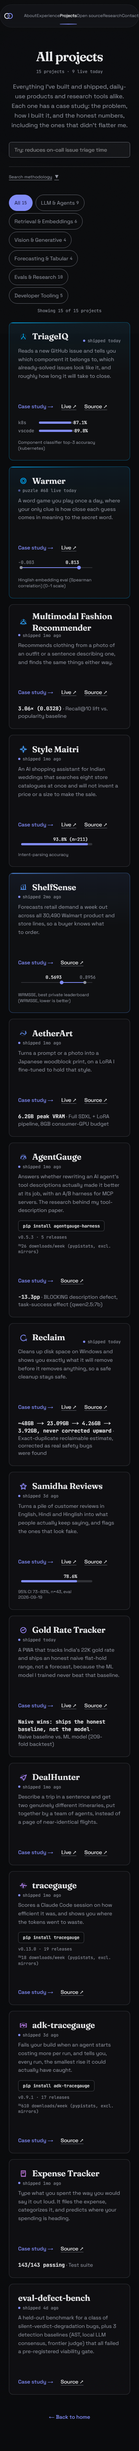
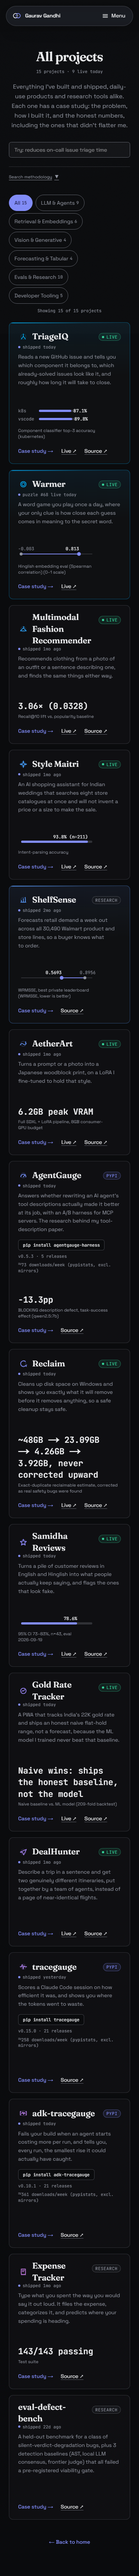
docs(refresh): recapture after/ screenshots with the distinct light theme
The 2026-09-25 after/ set predates the light theme (light == dark). Recaptured from
production ea10774 at 375/768/1440 x light/dark plus profile README light/dark. before/ untouched.

Changed region(s): [[0.0587, 0.0, 0.9093, 0.9971]]

diff --git a/docs/refresh-2026-09/after/README.md b/docs/refresh-2026-09/after/README.md
@@ -1,38 +1,32 @@
 # refresh-2026-09 — after-screenshots index
 
-Captured: 2026-09-25, 08:14:49–08:16:14 UTC.
-Production SHA: `de8ddaac98ec2d8d9683057631721917cdf28253` (== `origin/main` HEAD;
-confirmed via `gh api repos/.../deployments?environment=Production`).
+Captured: 2026-10-13 (recapture; supersedes the 2026-09-25 set).
+Production SHA: `ea10774528b8fd3194316b71c6cabd3532119cd2` (`main` HEAD, read from
+`<meta name="build-sha">` on https://gaurav-gandhi.vercel.app at capture time).
+
+Why recaptured: the 2026-09-25 set (SHA `de8ddaa`) predates the light theme, so its
+"light" shots were identical to "dark" (the site then had no light mode). Production now
+ships a distinct light theme (Direction B); these shots show both.
 
 ## Tooling
 
-- Playwright `1.63.0`, Chromium `153.0.8010.12` (Chrome for Testing, revision 1243).
-- Node `v24.15.0`.
+- Playwright `1.62.1`, Chromium `151.0.7922.34`.
 
 ## Capture settings
 
 - Viewport widths: 375, 768, 1440 (height 900, content scrolls for full-page capture).
-- `deviceScaleFactor: 1`, `colorScheme: light|dark` set per context.
+- `deviceScaleFactor: 1`, `colorScheme: light|dark` set per context, plus `reducedMotion: 'reduce'`.
 - Wait: `waitUntil: 'networkidle'` on `page.goto`, then `document.fonts.ready`, then a
-  fixed 1000 ms settle, then `page.screenshot({ fullPage: true })`.
+  fixed 1500 ms settle, then `page.screenshot({ fullPage: true })`.
 - Pages: `/`, `/projects`, `/work/triageiq` → `home-*`, `projects-*`, `work-triageiq-*`.
 - Profile README: `https://github.com/gaurav-gandhi-2411`, logged out, viewport 1280×900.
 
 ## Light/dark observation
 
-Every light/dark pair on gaurav-gandhi.vercel.app has a **different md5** (see file
-sizes above), but side-by-side inspection shows the two images are visually
-identical — same dark palette, same layout, in both "light" and "dark"
-`colorScheme` contexts. A control capture (two `light`-only runs of `/` at
-1440px, 60s apart) also produced two different md5s despite the identical
-`colorScheme`. This confirms the byte differences come from a non-deterministic
-render (an animated canvas/particle background on the hero), not from the site
-responding to `colorScheme` — consistent with Phase A's finding that the site
-has no dark mode.
+Light and dark now differ: computed `<body>` background is `rgb(247, 247, 249)` under
+`colorScheme: light` and `rgb(10, 11, 13)` under `dark` on all three pages at all three
+widths. The previous capture's note (light shots identical to dark, no light mode) applies
+only to the superseded 2026-09-25 set.
 
-The GitHub profile README pair (`profile-readme-{light,dark}.png`) genuinely
-differs: GitHub's own dark theme renders (dark chrome, dark code blocks,
-dark contribution graph). All six README sections (Shipped & live, Open
-source, How I work, Research, Journey, Stack) render correctly in both, and
-both generated cards (top-stats card, contribution graph) render. Nothing
-broken observed.
+The GitHub profile README pair (`profile-readme-{light,dark}.png`) renders GitHub's own
+light and dark themes (logged out, viewport 1280x900, full page).
